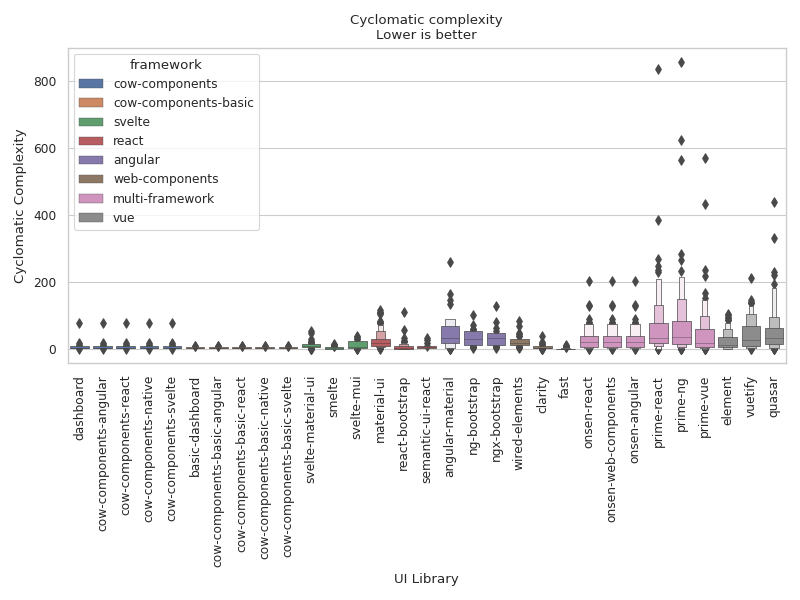
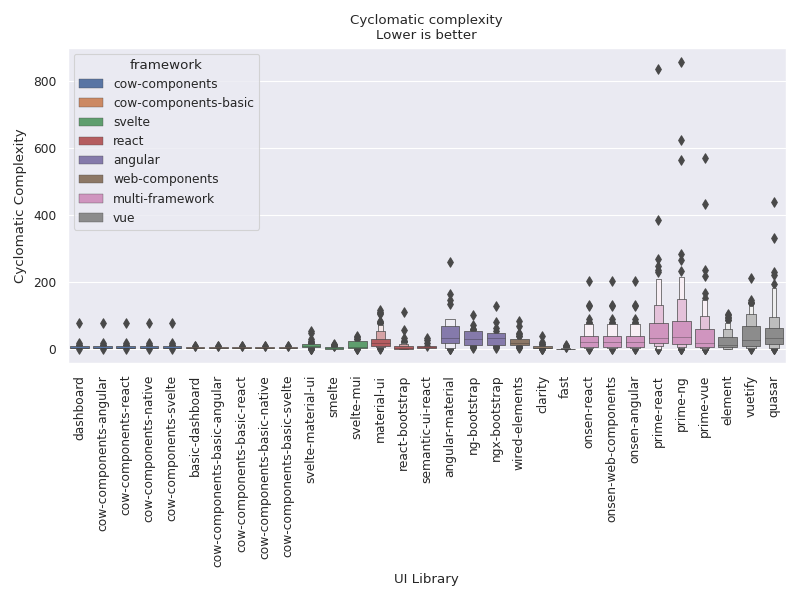
finish all plots

diff --git a/paper/plots/generators/render_time/all_plot.py b/paper/plots/generators/render_time/all_plot.py
@@ -1,2 +1,39 @@
+from data import get_data, create_plot
+from figures import write_plot
+import pandas as pd
+
+
 def generate_render_time_all_plot():
-	raise NotImplementedError()
+    print("Generating render time all plot")
+    data = get_data()
+
+    obj = {"UI Library": [], "Render time (ms)": [], "component": [], "framework": [], "Count": []}
+    for bundle in data.iter_bundles():
+        for component_name in bundle.render_time.component_time_map:
+            if component_name not in ["Button", "Input", "Switch"]:
+                continue
+            for component_count in bundle.render_time.component_time_map[component_name]:
+                for measurement in bundle.render_time.component_time_map[component_name][component_count].times:
+                    obj["UI Library"].append(bundle.bundle)
+                    obj["component"].append(component_name)
+                    obj["Render time (ms)"].append(int(measurement))
+                    obj["framework"].append(bundle.framework)
+                    obj["Count"].append(int(component_count))
+
+    df = pd.DataFrame(obj)
+
+    for component in ["Button", "Input", "Switch"]:
+        for count in [1, 10, 100]:
+            ax = create_plot(
+                f"Render time of {component} (component count = {count})\nLower is better",
+                "boxen",
+                data,
+                None,
+                "UI Library",
+                "Render time (ms)",
+                rotate_labels=True,
+                extra_dict={"hue": "framework", "linewidth": 0.1,"showfliers": True},
+                figsize=(8,6),
+                data_frame=df[df["Count"] == count][df["component"] == component],
+            )
+            write_plot(ax, f"render-time-all-{count}-{component}")

diff --git a/paper/plots/generators/render_time/all_plot_big.py b/paper/plots/generators/render_time/all_plot_big.py
@@ -3,15 +3,12 @@ from figures import write_plot
 import pandas as pd
 
 
-def generate_render_time_cow_plot():
-    print("Generating render time cow plot")
+def generate_render_time_all_plot_big():
+    print("Generating render time all plot (big)")
     data = get_data()
 
     obj = {"UI Library": [], "Render time (ms)": [], "component": [], "framework": [], "Count": []}
     for bundle in data.iter_bundles():
-        if bundle.framework != "cow-components":
-            continue
-
         for component_name in bundle.render_time.component_time_map:
             if component_name not in ["Button", "Input", "Switch"]:
                 continue
@@ -27,17 +24,16 @@ def generate_render_time_cow_plot():
 
     for count in [1, 10, 100]:
         ax = create_plot(
-            f"Render time of Button, Switch and Input (component count = {count}, cow bundles only)\nLower is better",
+            f"Render time of Button, Switch and Input (component count = {count})\nLower is better",
             "boxen",
             data,
             None,
             "UI Library",
             "Render time (ms)",
             rotate_labels=True,
-            extra_dict={"hue": "component"},
-            figsize=(7, 5),
+            extra_dict={"hue": "component", "linewidth": 0.1,"showfliers": False},
+            figsize=(12, 8),
             data_frame=df[df["Count"] == count],
-            rotation=45,
             dodge=True
         )
-        write_plot(ax, f"render-time-cow-{count}")
+        write_plot(ax, f"render-time-all-big-{count}")

diff --git a/paper/plots/data/get_data.py b/paper/plots/data/get_data.py
@@ -53,7 +53,7 @@ class TimeData:
 
 
 class RenderTime:
-    component_time_map: Dict[str, Dict[int, ByComponentNumberStats]]
+    component_time_map: Dict[str, Dict[int, TimesAndStats]]
     stats_by_num_components: Dict[str, float]
 
     def __init__(self, data_obj: Dict[str, Any]):
@@ -196,7 +196,7 @@ def create_plot(
     extra: List[Any] = [],
     extra_dict: Dict[str, Any] = {},
     data_frame: Optional[Any] = None,
-    dodge: bool = False
+    dodge: bool = False,
 ) -> pd.DataFrame:
     sns = get_sns()
     df = data_frame if data_frame is not None else create_dataframe(data, get_data, bundle_label, data_label, framework_label)
@@ -208,6 +208,8 @@ def create_plot(
         plt.xticks(rotation=0)
     if plot_type == "boxen":
         ax = sns.boxenplot(x=bundle_label, y=data_label, data=df, *extra, **extra_dict, dodge=dodge)
+    elif plot_type == "box":
+        ax = sns.boxplot(x=bundle_label, y=data_label, data=df, *extra, **extra_dict, dodge=dodge)
     elif plot_type == "boxen-dots":
         ax = sns.boxenplot(x=bundle_label, y=data_label, data=df, *extra, **extra_dict, showfliers=False, dodge=dodge)
         ax = sns.stripplot(x=bundle_label, y=data_label, data=df, size=2, color=".26")

diff --git a/paper/plots/generate-plots.py b/paper/plots/generate-plots.py
@@ -9,8 +9,11 @@ from generators import (
     generate_lines_of_code_plot,
     generate_load_time_all_plot,
     generate_load_time_cow_plot,
-    generate_render_time_all_plot,
+    generate_load_time_cow_plot_no_angular,
+    generate_load_time_all_plot_no_angular,
+    generate_render_time_all_plot_big,
     generate_render_time_cow_plot,
+    generate_render_time_all_plot,
     generate_maintainability_plot,
 )
 
@@ -24,8 +27,11 @@ def main():
     generate_lines_of_code_plot()
     generate_load_time_cow_plot()
     generate_load_time_all_plot()
-    # generate_render_time_all_plot()
-    # generate_render_time_cow_plot()
+    generate_load_time_cow_plot_no_angular()
+    generate_load_time_all_plot_no_angular()
+    generate_render_time_all_plot_big()
+    generate_render_time_cow_plot()
+    generate_render_time_all_plot()
 
 
 if __name__ == "__main__":

diff --git a/paper/plots/generators/__init__.py b/paper/plots/generators/__init__.py
@@ -1,6 +1,6 @@
 from .load_time import generate_load_time_all_plot, generate_load_time_all_plot_no_angular, generate_load_time_cow_plot, generate_load_time_cow_plot_no_angular
 from .page_load import generate_first_paint_plot
-from .render_time import generate_render_time_all_plot, generate_render_time_cow_plot
+from .render_time import generate_render_time_all_plot_big, generate_render_time_cow_plot, generate_render_time_all_plot
 from .quality import (
     generate_cyclomatic_complexity_plot,
     generate_lines_of_code_plot,

diff --git a/paper/plots/generators/render_time/__init__.py b/paper/plots/generators/render_time/__init__.py
@@ -1,2 +1,3 @@
-from .all_plot import generate_render_time_all_plot
+from .all_plot_big import generate_render_time_all_plot_big
 from .cow_plot import generate_render_time_cow_plot
+from .all_plot import generate_render_time_all_plot

diff --git a/paper/plots/figures/fig_config.py b/paper/plots/figures/fig_config.py
@@ -2,6 +2,6 @@ import seaborn as sns
 
 
 def get_sns() -> sns:
-    sns.set_theme(style="whitegrid")
+    sns.set_theme(style="darkgrid")
     sns.set_context("paper")
     return sns

diff --git a/paper/plots/generators/page_load/first_paint.py b/paper/plots/generators/page_load/first_paint.py
@@ -1,4 +1,3 @@
-from matplotlib import pyplot as plt
 import pandas as pd
 
 from data import get_data, create_plot, create_dataframe
